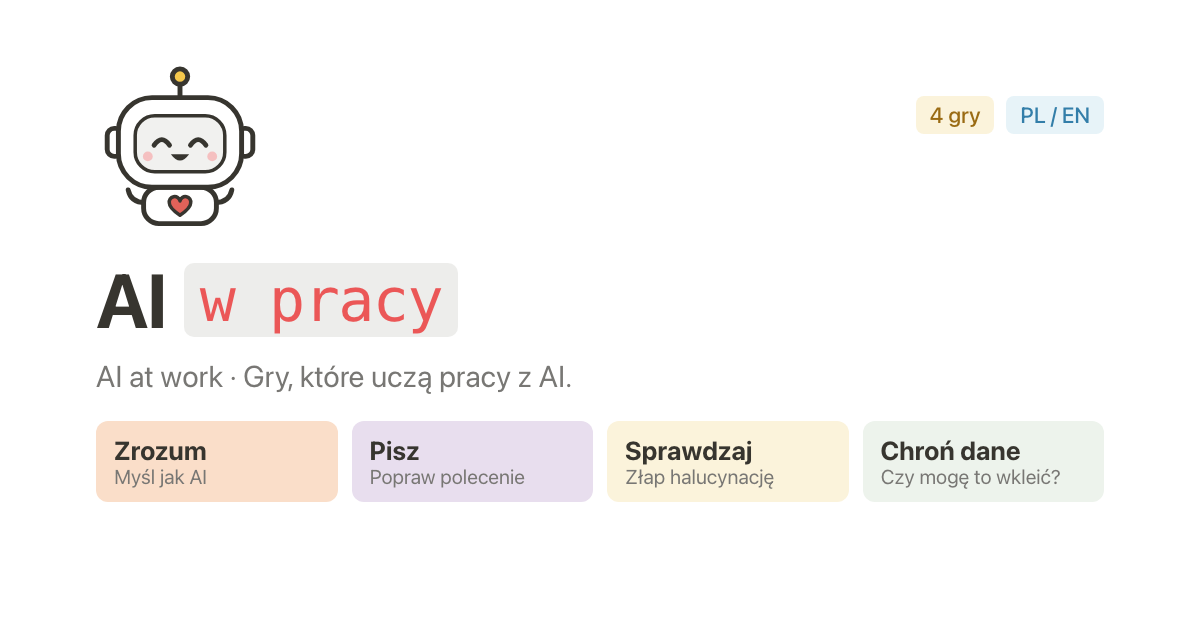
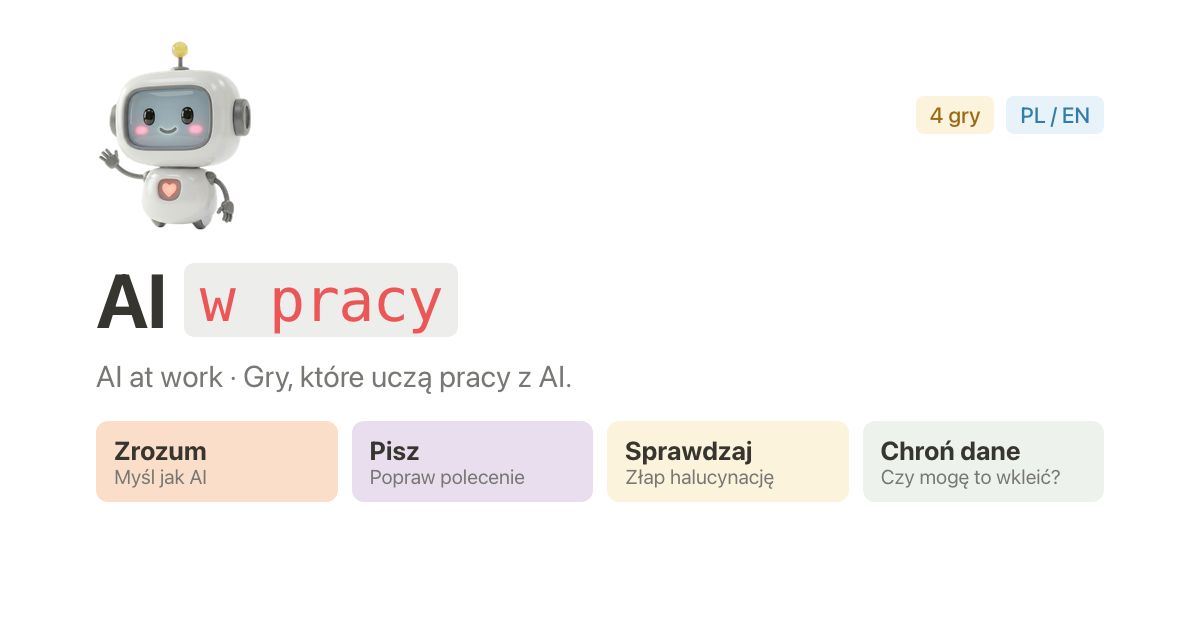
Nowy Bajtek 3D: strona główna, obrazek do udostępniania i wspólny folder bajtek/ (4 nastroje)

Changed region(s): [[0.0617, 0.0603, 0.2158, 0.3619]]

diff --git a/index.html b/index.html
@@ -60,9 +60,7 @@
   .lang button:focus-visible { outline: 2px solid var(--blue); outline-offset: 1px; }
 
   /* Mascot (Bajtek, the guide from the games) */
-  .mascot { display: block; width: 76px; height: 76px; margin: 22px 0 10px; overflow: visible; }
-  .mascot .eyes { transform-origin: 60px 56px; animation: blink 5s ease-in-out infinite; }
-  @keyframes blink { 0%, 94%, 100% { transform: scaleY(1); } 97% { transform: scaleY(0.1); } }
+  .mascot { display: block; width: auto; height: 96px; margin: 22px 0 10px; }
 
   h1 { font-size: 40px; font-weight: 700; line-height: 1.15; letter-spacing: -0.02em; margin: 0 0 12px; }
   h2 { font-size: 22px; font-weight: 600; margin: 40px 0 6px; letter-spacing: -0.01em; }
@@ -232,24 +230,7 @@ function esc(s) {
   return String(s).replace(/[&<>"']/g, (c) => ({ "&": "&amp;", "<": "&lt;", ">": "&gt;", '"': "&quot;", "'": "&#39;" }[c]));
 }
 
-const MASCOT = `
-  <svg class="mascot" viewBox="0 0 120 120" aria-hidden="true">
-    <g fill="none" stroke="#37352f" stroke-width="3.5" stroke-linecap="round" stroke-linejoin="round">
-      <path d="M35 99C27 99 24 95 23 90"/><path d="M85 99C93 99 96 95 97 90"/>
-      <rect x="34" y="88" width="52" height="26" rx="11" fill="#fff"/>
-      <path d="M60 108c-5-3.4-7.6-6-7.6-8.6a3.6 3.6 0 0 1 7.6-1.6a3.6 3.6 0 0 1 7.6 1.6c0 2.6-2.6 5.2-7.6 8.6z" fill="#e16259" stroke-width="2.5"/>
-      <path d="M60 26V14"/><circle cx="60" cy="9" r="5.5" fill="#f5c84c"/>
-      <rect x="8" y="46" width="11" height="20" rx="5" fill="#fff"/><rect x="101" y="46" width="11" height="20" rx="5" fill="#fff"/>
-      <rect x="16" y="24" width="88" height="64" rx="24" fill="#fff"/>
-      <rect x="28" y="37" width="64" height="40" rx="14" fill="#f1f1ef" stroke-width="2.5"/>
-    </g>
-    <g class="eyes">
-      <ellipse cx="47" cy="56" rx="5" ry="6.5" fill="#37352f"/><ellipse cx="73" cy="56" rx="5" ry="6.5" fill="#37352f"/>
-      <circle cx="48.6" cy="53.6" r="1.7" fill="#fff"/><circle cx="74.6" cy="53.6" r="1.7" fill="#fff"/>
-    </g>
-    <circle cx="37" cy="66" r="3.5" fill="#f5c0c0"/><circle cx="83" cy="66" r="3.5" fill="#f5c0c0"/>
-    <path d="M55 66q5 4.5 10 0" fill="none" stroke="#37352f" stroke-width="3" stroke-linecap="round"/>
-  </svg>`;
+const MASCOT = `<img class="mascot" src="bajtek/idle.png" alt="" width="248" height="288">`;
 
 function authorHTML() {
   if (!AUTHOR.name) return "";
